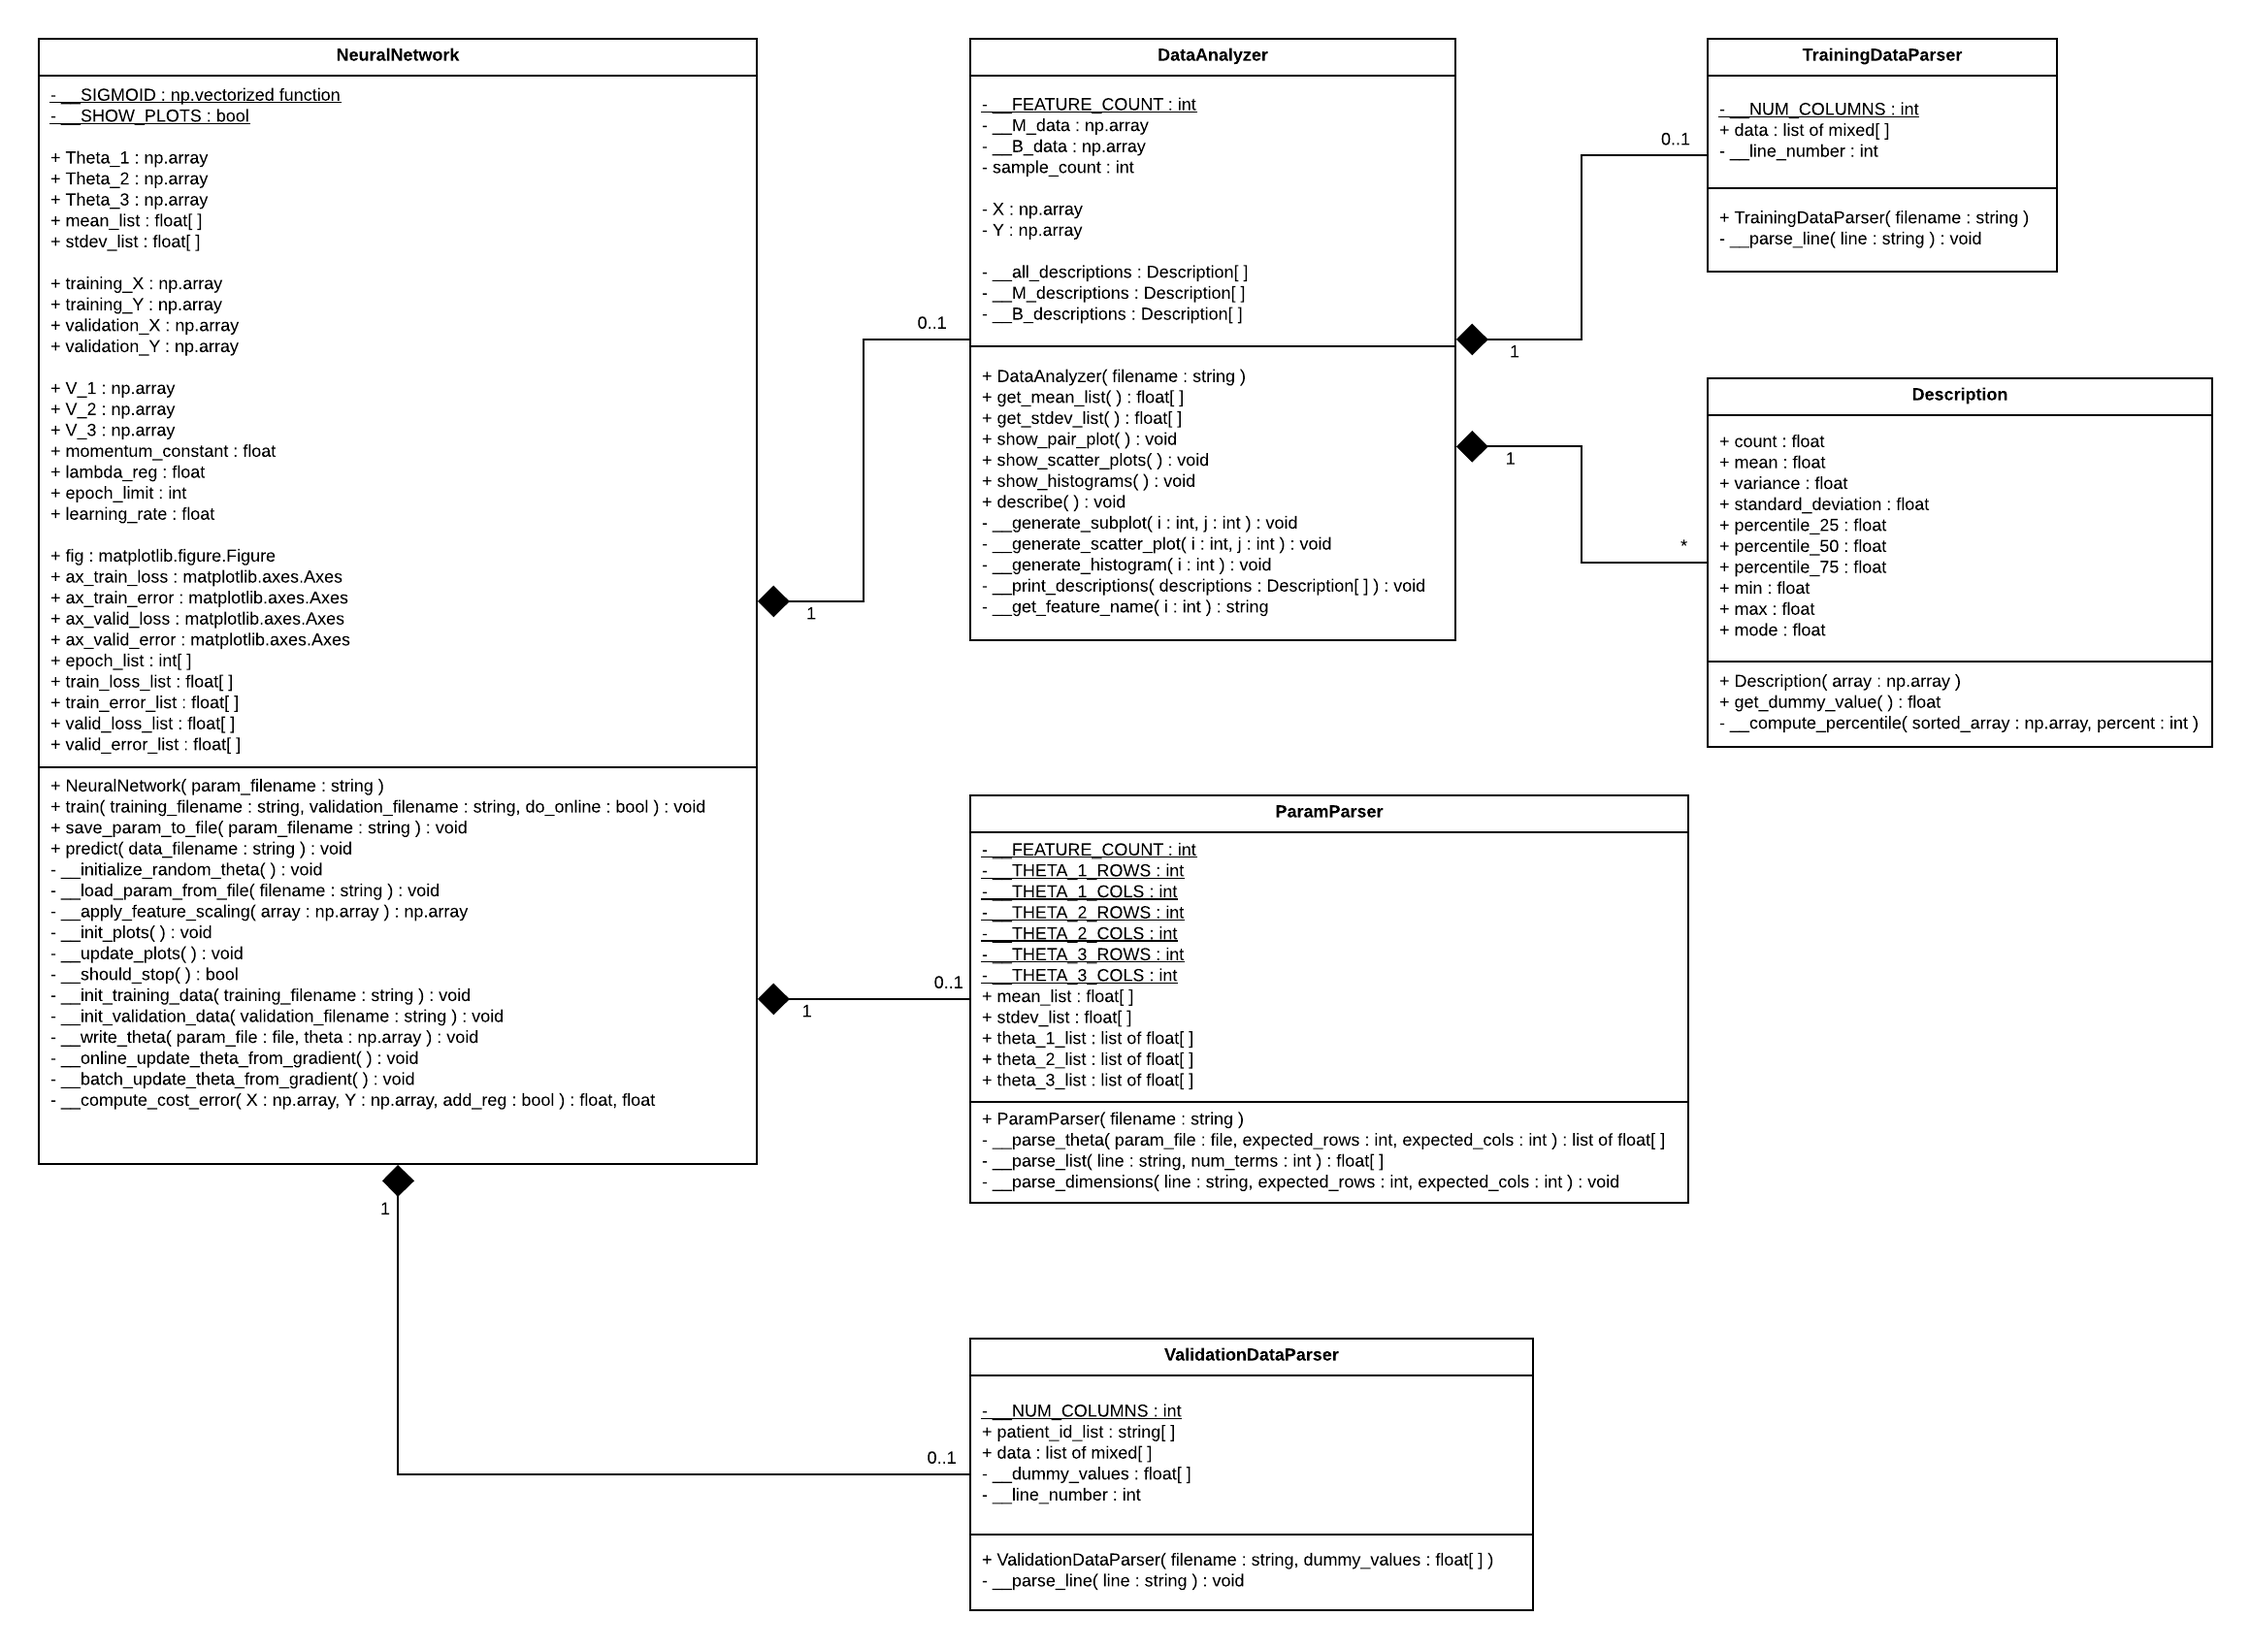
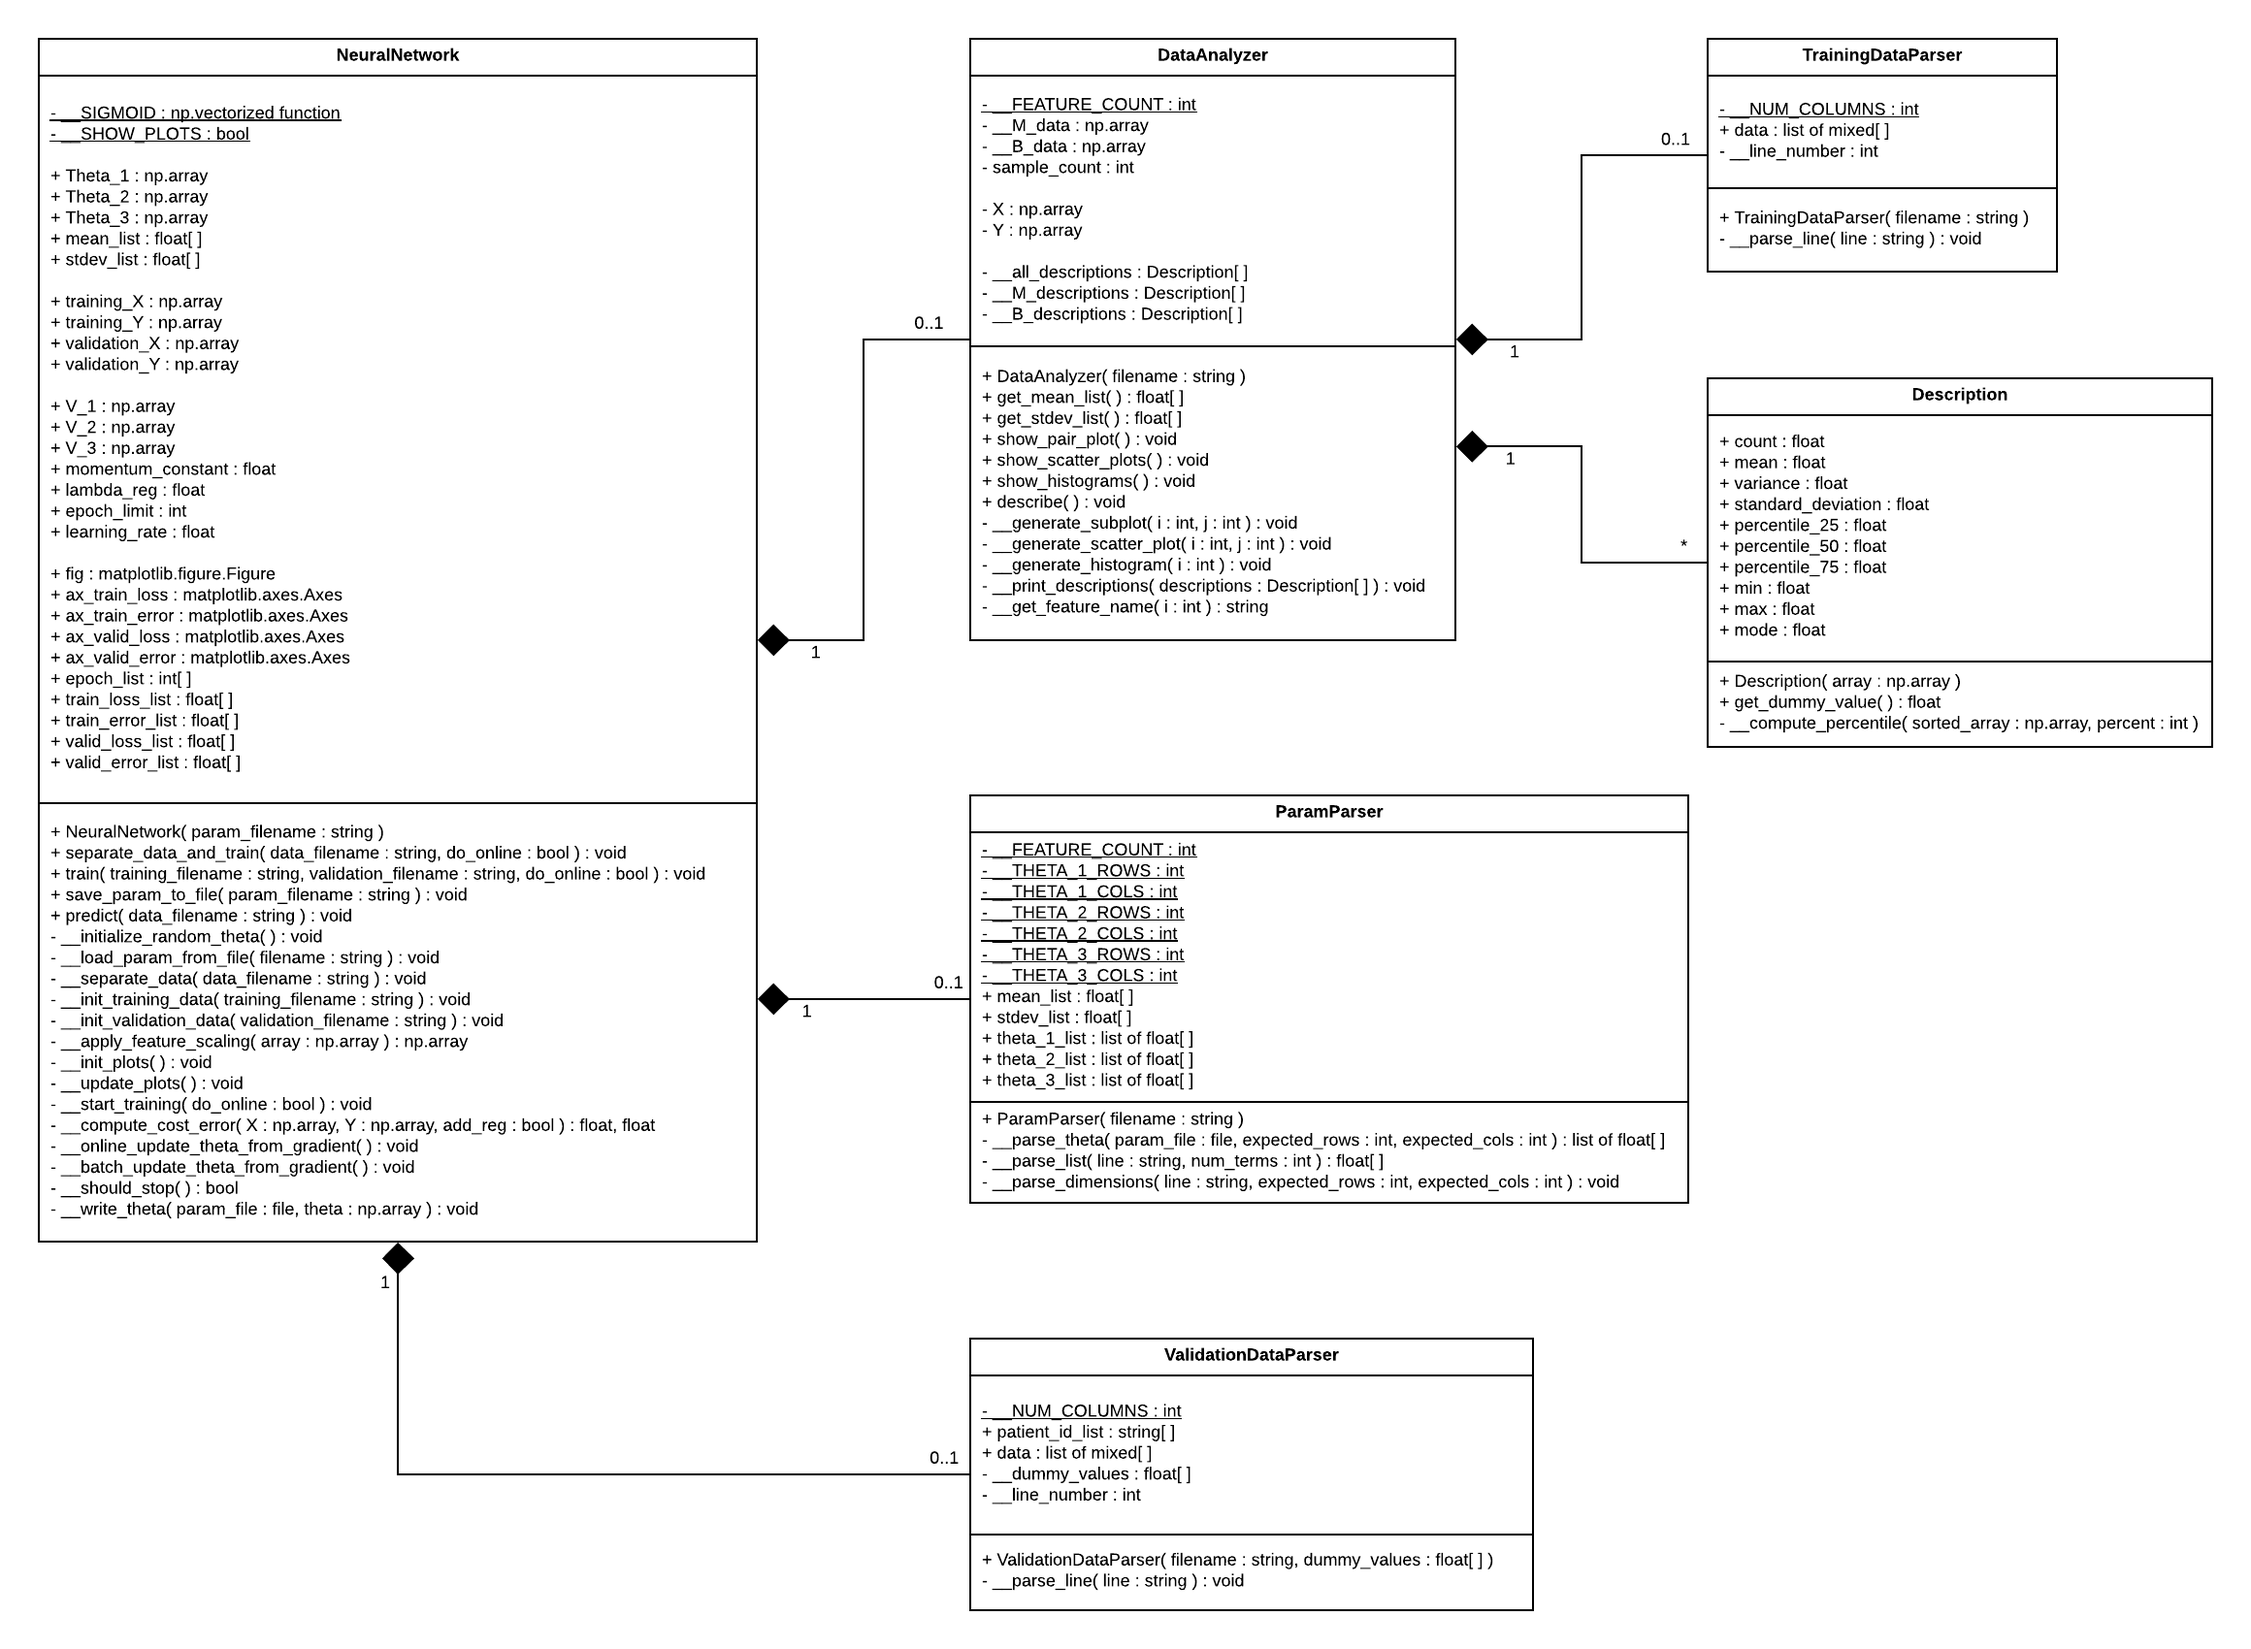
yes

Changed region(s): [[0.031, 0.0312, 0.3103, 0.7794], [0.3414, 0.3429, 0.3724, 0.4053]]

diff --git a/NeuralNetwork.py b/NeuralNetwork.py
@@ -26,7 +26,7 @@ class NeuralNetwork:
 	__SHOW_PLOTS = os.getenv('MP_PLOTS') == 'TRUE'
 
 	def __init__(self, param_filename=None):
-		if param_file is None:
+		if param_filename is None:
 			self.__initialize_random_theta()
 		else:
 			self.__load_param_from_file(param_filename)
@@ -173,12 +173,44 @@ class NeuralNetwork:
 		prediction_loss, prediction_error = self.__compute_cost_error(X, Y)
 		print('Prediction Loss: %.5f, Prediction Error: %d' % (prediction_loss, prediction_error))
 
+	def __separate_data(self, data_filename):
+		data_analyzer = DataAnalyzer(data_filename)
+		self.mean_list = data_analyzer.get_mean_list()
+		self.stdev_list = data_analyzer.get_stdev_list()
+		
+		# feature scale, and add column of 1s to X
+		all_X = data_analyzer.X
+		all_X = self.__apply_feature_scaling(all_X)
+		all_X = np.c_[np.ones(all_X.shape[0]), all_X]
+		all_Y = data_analyzer.Y
+		all_data = np.c_[all_X, all_Y]
+
+		np.random.shuffle(all_data)
+		split_row_index = int(all_data.shape[0] * 0.8)	# top 80% of rows will be for training
+
+		training_data = all_data[:split_row_index, :]
+		validation_data = all_data[split_row_index:, :]
+
+		self.training_X = training_data[:, :-1]
+		self.training_Y = training_data[:, -1]
+		self.training_Y = self.training_Y.reshape(self.training_Y.shape[0], 1)
+
+		self.validation_X = validation_data[:, :-1]
+		self.validation_Y = validation_data[:, -1]
+		self.validation_Y = self.validation_Y.reshape(self.validation_Y.shape[0], 1)
+
+	def separate_data_and_train(self, data_filename, do_online):
+		self.__separate_data(data_filename)
+		self.__init_plots()
+		self.__start_training(do_online)
 
 	def train(self, training_filename, validation_filename, do_online):
 		self.__init_training_data(training_filename)
 		self.__init_validation_data(validation_filename)
 		self.__init_plots()
+		self.__start_training(do_online)
 
+	def __start_training(self, do_online):
 		if do_online:
 			self.V_1 = np.zeros(self.Theta_1.shape)
 			self.V_2 = np.zeros(self.Theta_2.shape)

diff --git a/separate_and_train.py b/separate_and_train.py
@@ -1,4 +1,4 @@
-# (☞ﾟヮﾟ)☞  PREDICTION.PY
+# (☞ﾟヮﾟ)☞  SEPARATE_AND_TRAIN.PY
 
 from NeuralNetwork import NeuralNetwork
 from exceptions import ParserException
@@ -7,16 +7,19 @@ import sys
 
 def main():
 	# check argv
-	if len(sys.argv) != 3:
-		print('usage: ' + Fore.RED + 'python3' + Fore.BLUE + ' prediction.py ' + Fore.RESET + \
-			'param.dat prediction_data.csv')
+	if len(sys.argv) < 2:
+		print('usage: ' + Fore.RED + 'python3' + Fore.BLUE + ' separate_and_train.py ' + Fore.RESET + \
+			'data.csv [-o]')
 		sys.exit(-1)
-	param_filename = sys.argv[1]
-	prediction_filename = sys.argv[2]
+	data_filename = sys.argv[1]
+	do_online = False
+	if len(sys.argv) == 3:
+		do_online = sys.argv[2] == '-o'
 
 	try:
-		neural_network = NeuralNetwork(param_filename)
-		neural_network.predict(prediction_filename)
+		neural_network = NeuralNetwork()
+		neural_network.separate_data_and_train(data_filename, do_online)
+		neural_network.save_param_to_file('param.dat')
 	except IOError as e:
 		print(Style.BRIGHT + Fore.RED + 'I/O Error: ' + Style.RESET_ALL + Fore.RESET + str(e))
 	except ParserException as e:

diff --git a/training.py b/training.py
@@ -8,18 +8,18 @@ import sys
 def main():
 	# check argv
 	if len(sys.argv) < 3:
-		print('usage: ' + Fore.RED + 'python3' + Fore.BLUE + ' prediction.py ' + Fore.RESET + \
-			'training_data.csv validation_data.csv')
+		print('usage: ' + Fore.RED + 'python3' + Fore.BLUE + ' training.py ' + Fore.RESET + \
+			'training_data.csv validation_data.csv [-o]')
 		sys.exit(-1)
-	training_file = sys.argv[1]
-	validation_file = sys.argv[2]
+	training_filename = sys.argv[1]
+	validation_filename = sys.argv[2]
 	do_online = False
-	if len(sys.argv) >= 4:
+	if len(sys.argv) == 4:
 		do_online = sys.argv[3] == '-o'
 
 	try:
 		neural_network = NeuralNetwork()
-		neural_network.train(training_file, validation_file, do_online)
+		neural_network.train(training_filename, validation_filename, do_online)
 		neural_network.save_param_to_file('param.dat')
 	except IOError as e:
 		print(Style.BRIGHT + Fore.RED + 'I/O Error: ' + Style.RESET_ALL + Fore.RESET + str(e))
